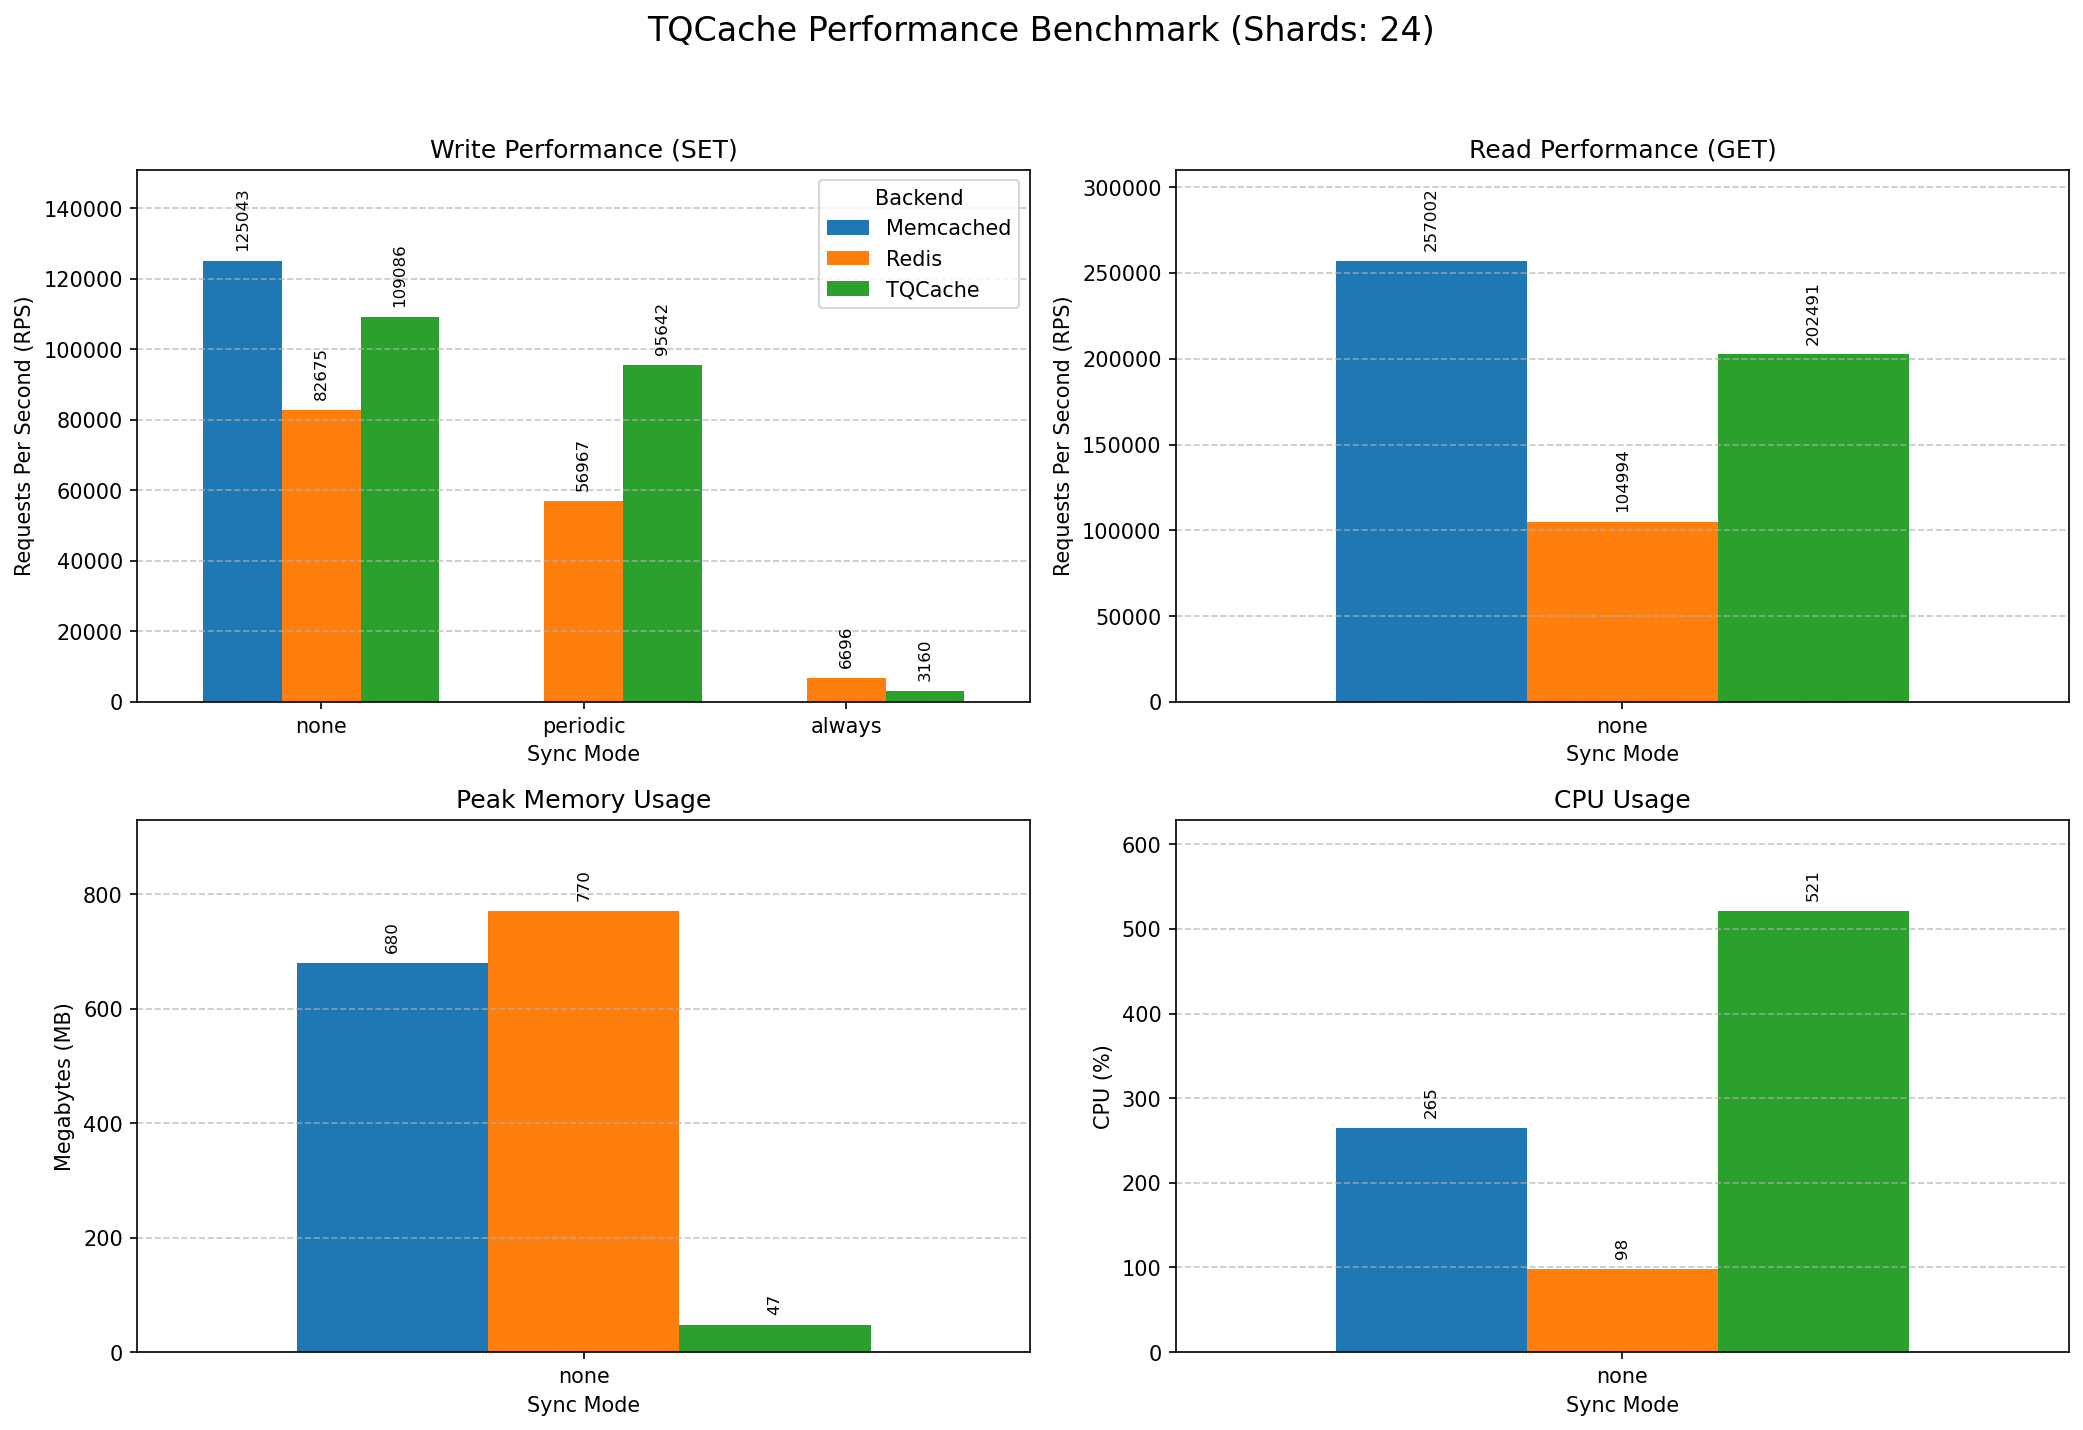
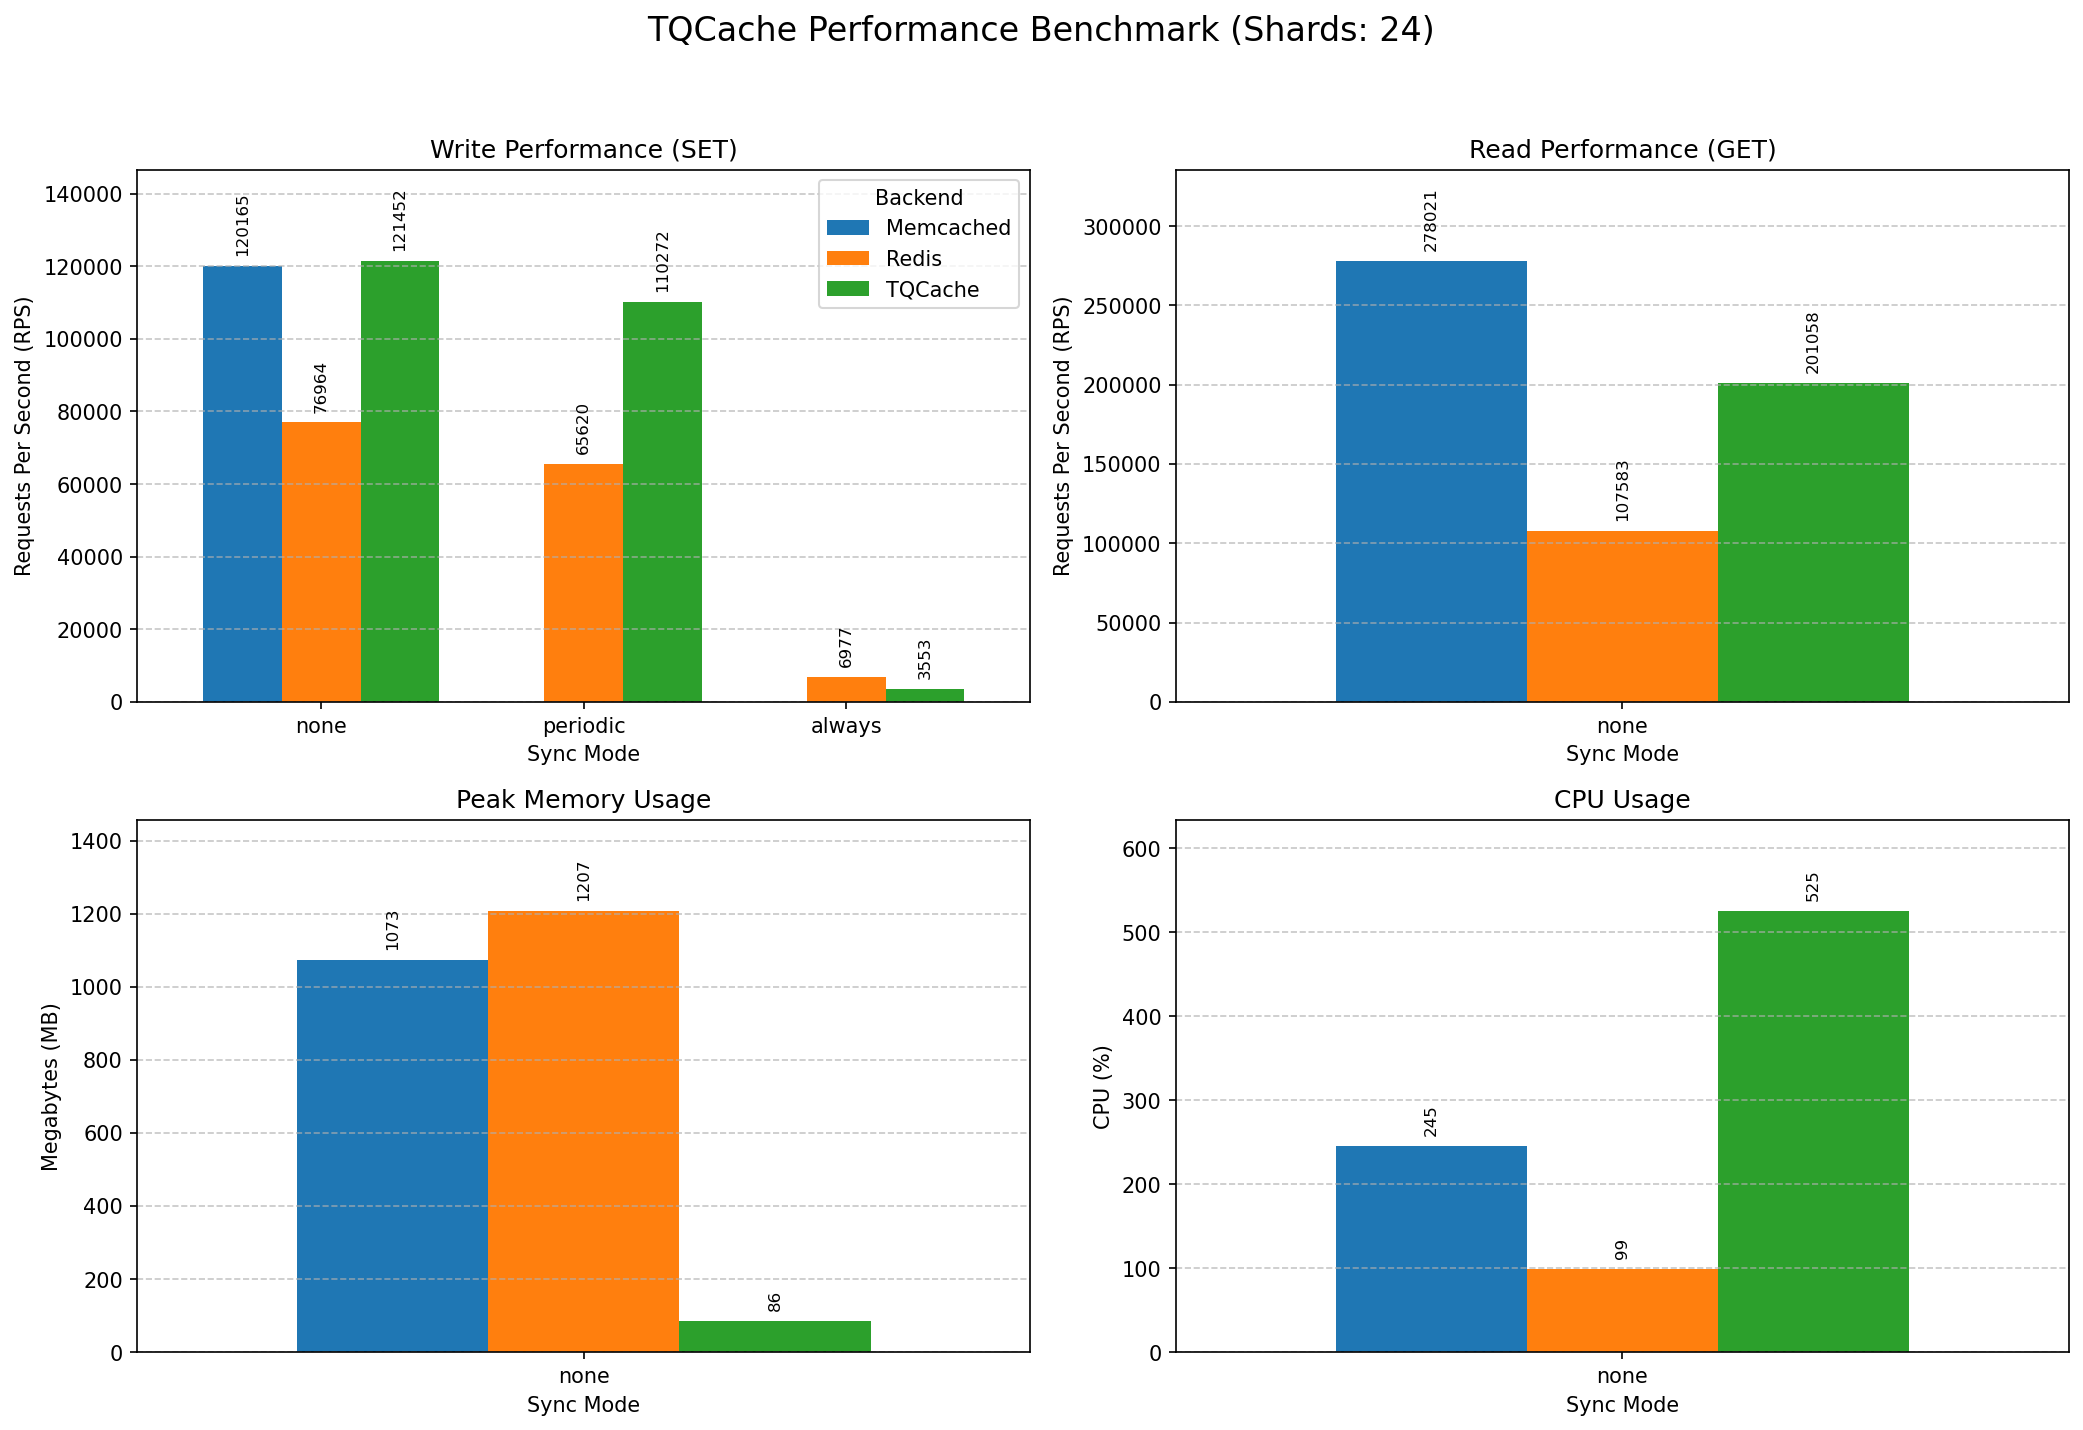
update

diff --git a/benchmarks/getset/getset_benchmark.go b/benchmarks/getset/getset_benchmark.go
@@ -30,7 +30,7 @@ var (
 	keys       = flag.Int("keys", 100000, "Key space size")
 	cpuprofile = flag.String("cpuprofile", "", "write cpu profile to file")
 	operation  = flag.String("op", "both", "operation to benchmark: set, get, or both")
-	sequential = flag.Bool("sequential", false, "Sequential key access (vs random)")
+	sequential = flag.Bool("sequential", true, "Sequential key access (vs random)")
 )
 
 // Benchmarker defines the interface for benchmarking different cache backends

diff --git a/README.md b/README.md
@@ -79,10 +79,10 @@ Benchmarks were run on a local development environment (Linux, Loopback).
 
 ### Performance Highlights
 
-- **Write (SET)**: +62% faster than Redis (~83k RPS vs ~51k RPS) when writing
+- **Write (SET)**: +49% faster than Redis (~92k RPS vs ~62k RPS) when writing
   with Periodic Sync.
-- **Read (GET)**: +67% faster than Redis (~179k RPS vs ~107k RPS) when reading.
-- **Memory**: reserves ~21x less memory than Redis (~54MB vs ~767MB),
+- **Read (GET)**: +64% faster than Redis (~176k RPS vs ~107k RPS) when reading.
+- **Memory**: reserves ~19x less memory than Redis (~70MB vs ~1339MB),
   uses OS disk cache.
 - **CPU**: uses ~4x more CPU than Redis (~4 vs ~1 core) as Redis is
   single threaded.
@@ -91,9 +91,9 @@ Benchmarks were run on a local development environment (Linux, Loopback).
 
 | Reference              | SET (RPS) | GET (RPS) | Memory (MB) | CPU Usage |
 | :--------------------- | :-------- | :-------- | :---------- | :-------- |
-| **Memcached** (Memory) | ~129k     | ~253k     | ~681MB      | ~3 core   |
-| **Redis** (Periodic)   | ~51k      | ~107k     | ~767MB      | ~1 core   |
-| **TQCache** (Periodic) | ~83k      | ~179k     | ~54MB       | ~4 core   |
+| **Memcached** (Memory) | ~126k     | ~275k     | ~1073MB     | ~2.5 core |
+| **Redis** (Periodic)   | ~62k      | ~107k     | ~1339MB     | ~1 core   |
+| **TQCache** (Periodic) | ~92k      | ~176k     | ~70MB       | ~4 core   |
 
 NB: The maximum amount of cores used can be calculated as: shards / 4
 

diff --git a/SLIDES.md b/SLIDES.md
@@ -137,17 +137,17 @@ data/
 
 | Reference              | SET (RPS) | GET (RPS) | Memory (MB) | CPU Usage |
 | :--------------------- | :-------- | :-------- | :---------- | :-------- |
-| **Memcached** (Memory) | ~129k     | ~253k     | ~681MB      | ~3 core   |
-| **Redis** (Periodic)   | ~51k      | ~107k     | ~767MB      | ~1 core   |
-| **TQCache** (Periodic) | ~83k      | ~179k     | ~54MB       | ~4 core   |
+| **Memcached** (Memory) | ~126k     | ~275k     | ~1073MB     | ~2.5 core |
+| **Redis** (Periodic)   | ~62k      | ~107k     | ~1339MB     | ~1 core   |
+| **TQCache** (Periodic) | ~92k      | ~176k     | ~70MB       | ~4 core   |
 
 ---
 
 # Performance Highlights
 
-- **SET**: +62% faster than Redis (~83k vs ~51k RPS)
-- **GET**: +67% faster than Redis (~179k vs ~107k RPS)
-- **Memory**: ~21x less than Redis (~54MB vs ~767MB)
+- **SET**: +49% faster than Redis (~92k vs ~62k RPS)
+- **GET**: +64% faster than Redis (~176k vs ~107k RPS)
+- **Memory**: ~19x less than Redis (~70MB vs ~1339MB)
 - **Uses OS disk cache** instead of in-process memory
 
 ---
